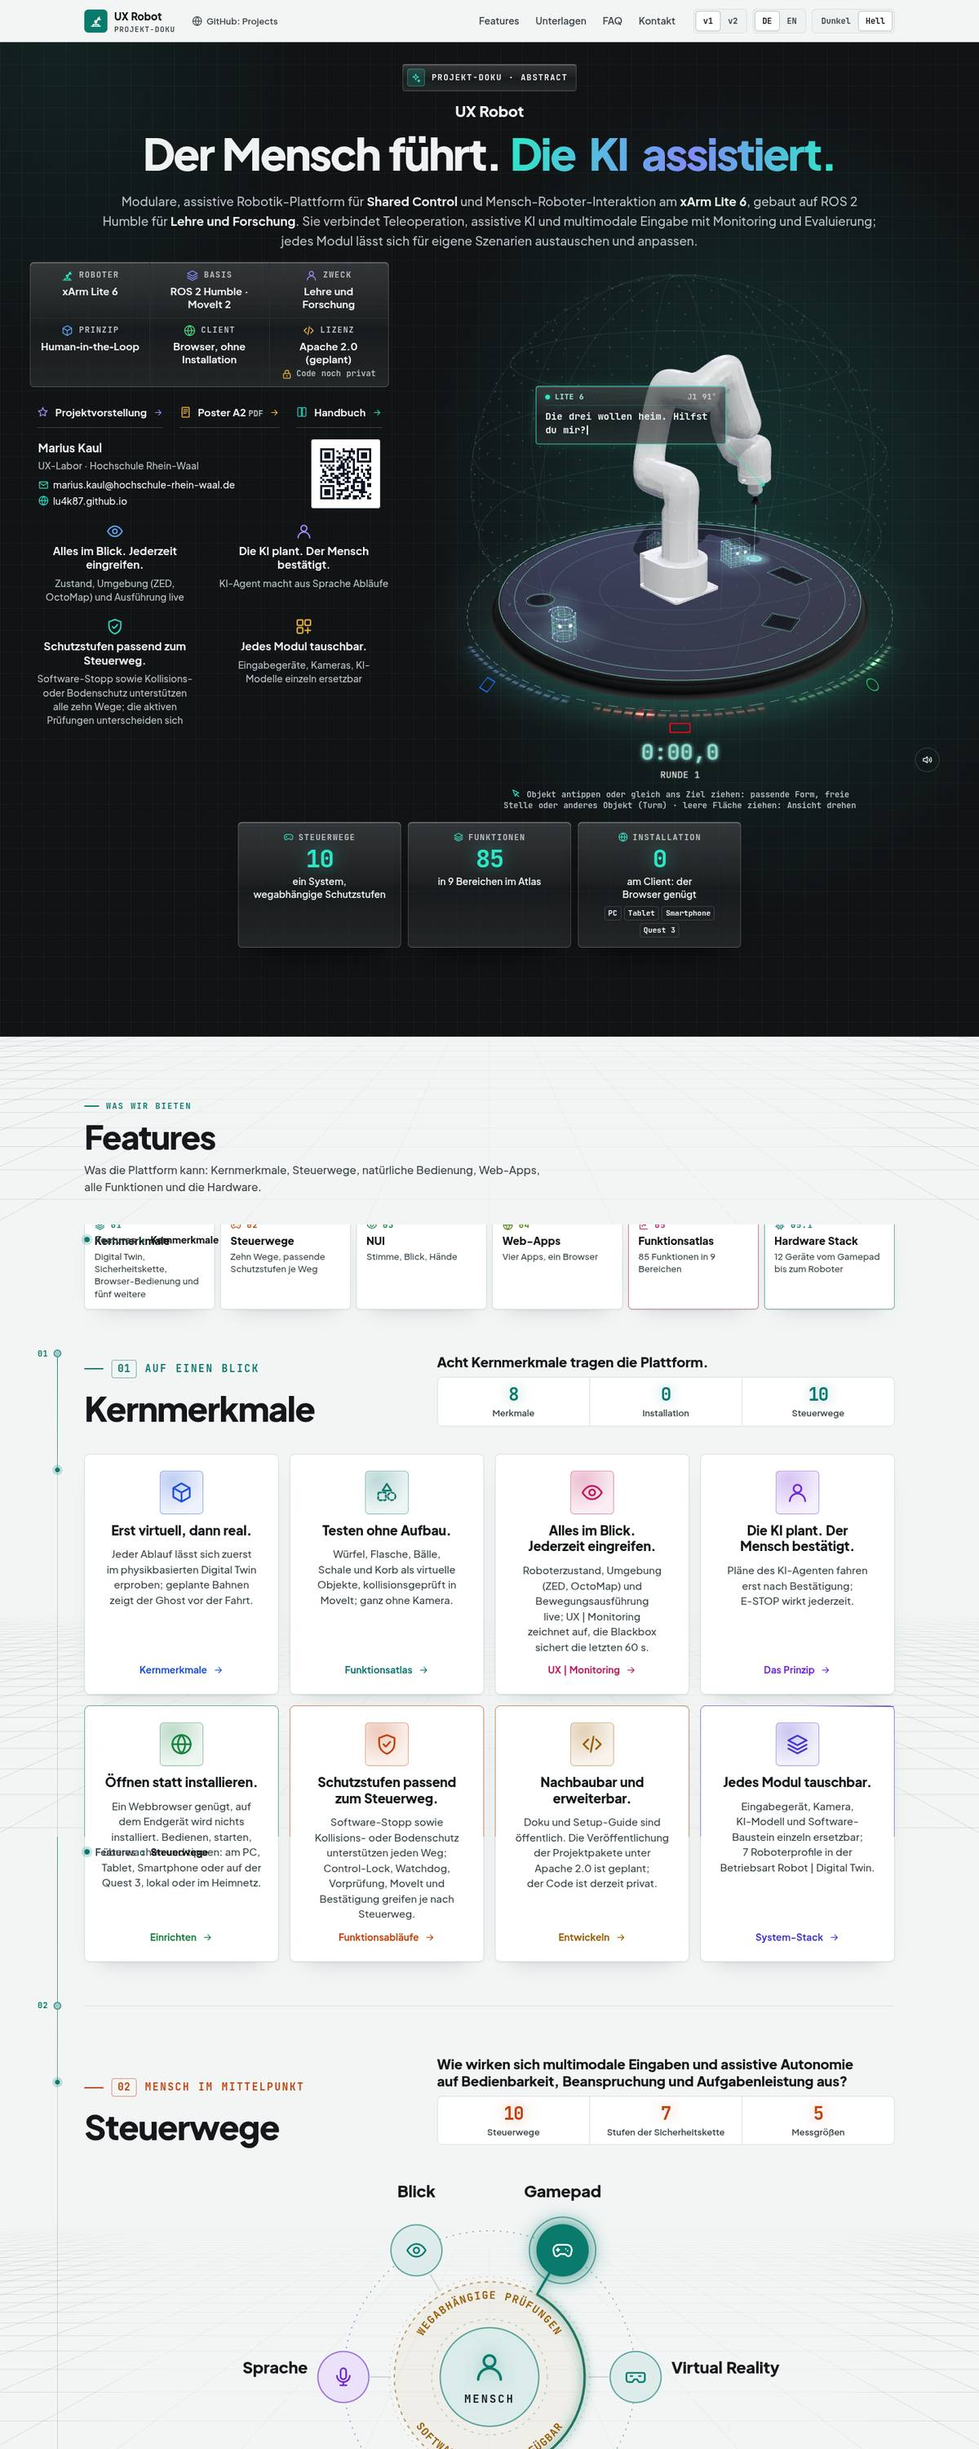
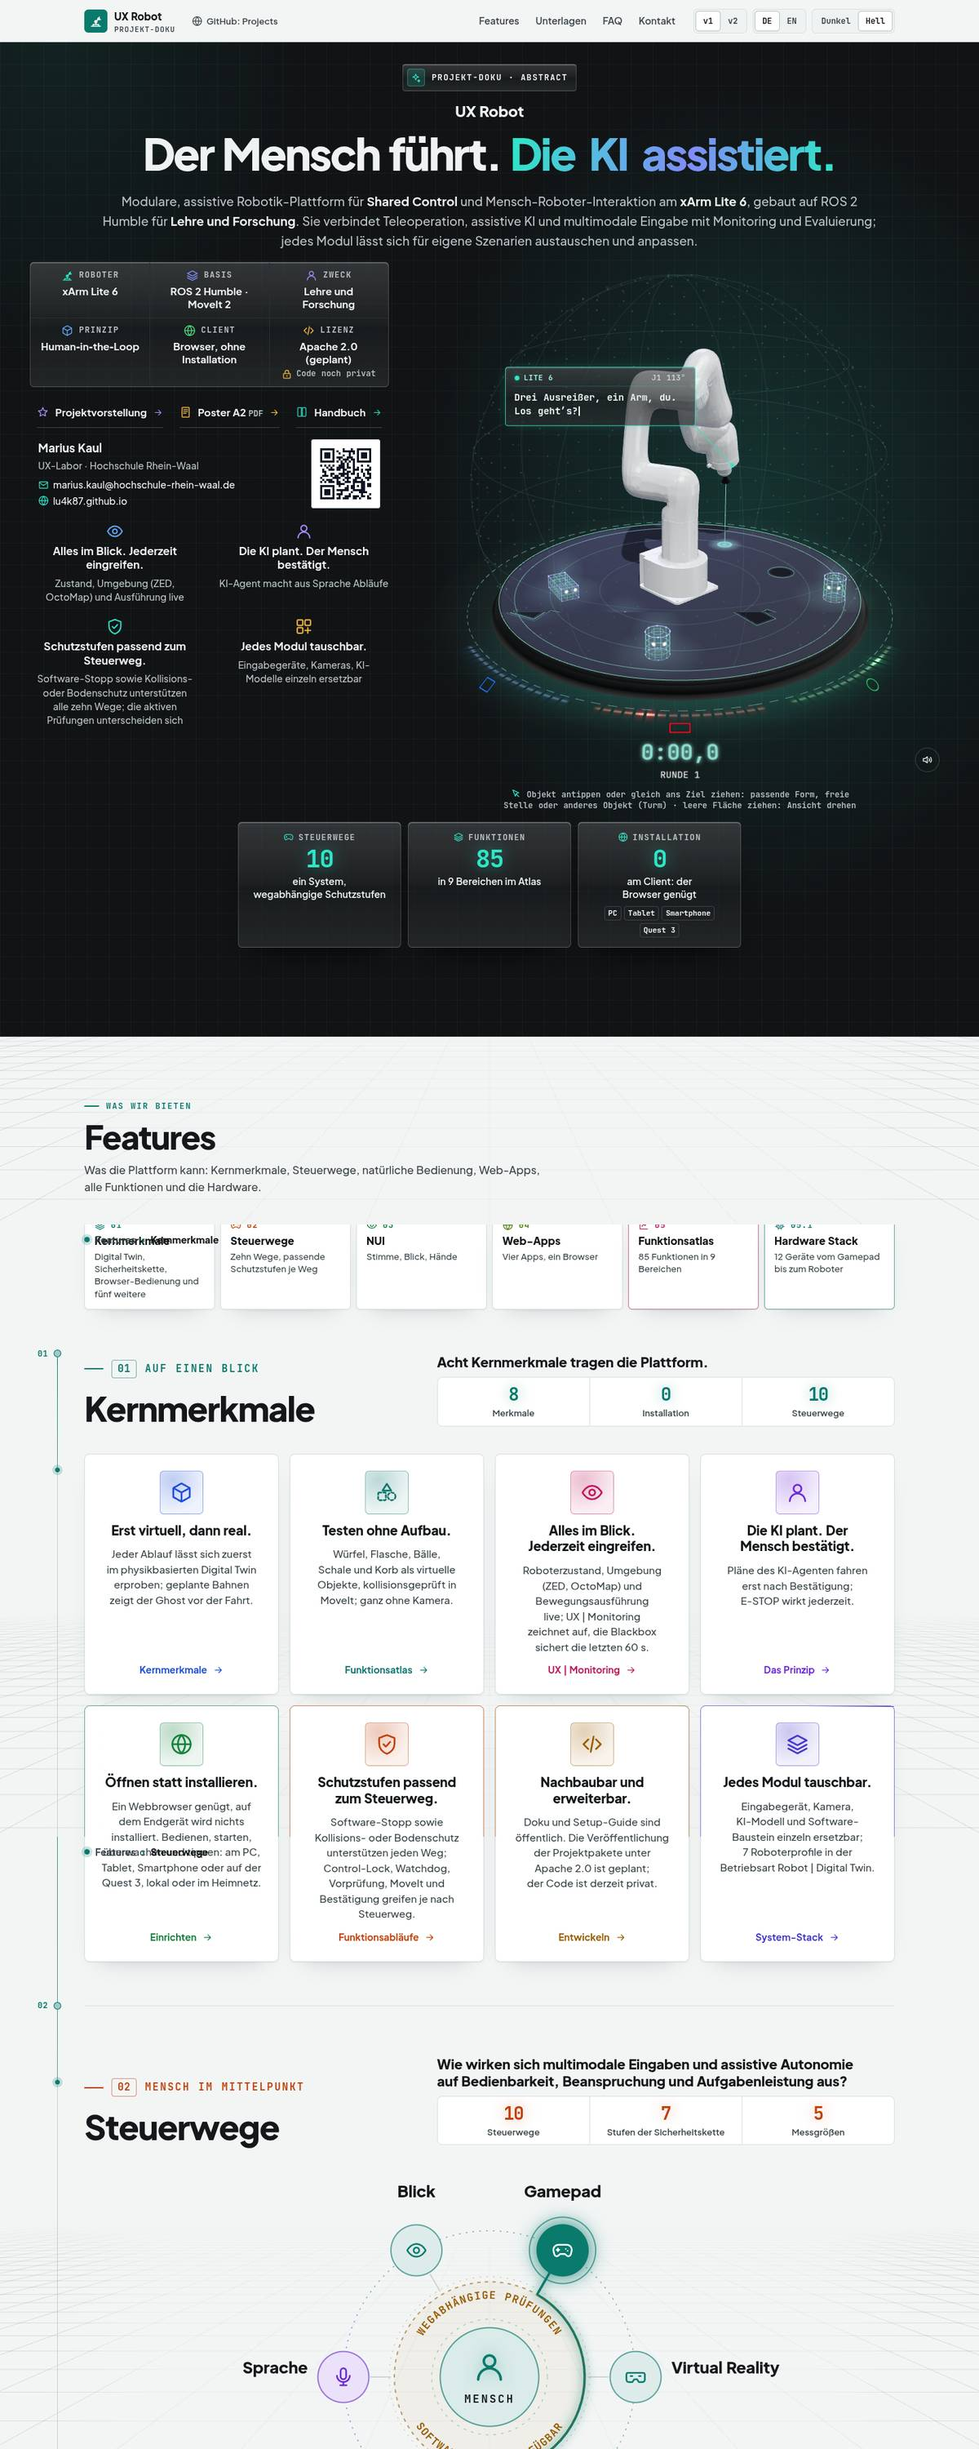
update project pages (dev_ws 053eba7e)

Changed region(s): [[0.5242, 0.124, 0.8017, 0.279], [0.555, 0.217, 0.5858, 0.279], [0.8325, 0.217, 0.8633, 0.248]]

diff --git a/index.html b/index.html
@@ -887,7 +887,7 @@ footer p { margin: 0; }
     <p class="kicker"><b>01</b><span>UX Lab</span></p>
     <h2 id="h-lab" data-en="UX Lab · Rhine-Waal University of Applied Sciences">UX Lab · Hochschule Rhein-Waal</h2>
     <p class="intro" data-en="Robotics platform and research belong together: the study runs on UX Robot.">Robotik-Plattform und Forschung gehören zusammen: Die Studie läuft auf UX Robot.</p>
-    <div class="grid rows"><article class="card row" id="p-ux_robot" data-reveal><div class="info"><div class="plate"><a class="qr-code" href="web_ux_robot/project_docs.html" aria-label="QR-Code lu4k87.github.io/web_ux_robot" data-en-aria="QR code lu4k87.github.io/web_ux_robot"><svg viewBox="0 0 29 29" class="segno"><path class="qrline" stroke="#000" d="M0 0.5h7m1 0h3m1 0h1m1 0h1m1 0h5m1 0h7m-29 1h1m5 0h1m1 0h2m6 0h2m2 0h1m1 0h1m5 0h1m-29 1h1m1 0h3m1 0h1m2 0h1m1 0h1m1 0h1m1 0h1m2 0h1m1 0h1m1 0h1m1 0h3m1 0h1m-29 1h1m1 0h3m1 0h1m1 0h1m1 0h1m6 0h1m1 0h1m2 0h1m1 0h3m1 0h1m-29 1h1m1 0h3m1 0h1m2 0h1m4 0h3m2 0h2m1 0h1m1 0h3m1 0h1m-29 1h1m5 0h1m2 0h3m1 0h1m2 0h4m2 0h1m5 0h1m-29 1h7m1 0h1m1 0h1m1 0h1m1 0h1m1 0h1m1 0h1m1 0h1m1 0h7m-21 1h1m5 0h2m1 0h4m-21 1h1m1 0h2m1 0h3m1 0h3m1 0h1m2 0h2m1 0h1m2 0h1m2 0h1m1 0h2m-29 1h4m3 0h3m1 0h1m1 0h1m2 0h5m1 0h1m1 0h1m3 0h1m-27 1h7m2 0h1m1 0h1m2 0h1m1 0h1m3 0h1m1 0h1m1 0h2m-28 1h2m1 0h2m2 0h3m2 0h1m2 0h1m2 0h3m1 0h1m1 0h1m3 0h1m-29 1h3m3 0h1m1 0h1m1 0h3m1 0h1m2 0h1m2 0h2m3 0h2m-27 1h4m3 0h3m4 0h6m1 0h2m3 0h3m-29 1h1m5 0h1m2 0h1m2 0h2m2 0h4m1 0h2m3 0h3m-29 1h4m3 0h2m1 0h1m1 0h1m1 0h1m7 0h3m2 0h1m-28 1h2m4 0h1m2 0h3m2 0h1m1 0h1m1 0h3m3 0h2m1 0h1m-26 1h3m2 0h1m1 0h1m1 0h2m1 0h2m4 0h1m4 0h3m-28 1h1m1 0h7m4 0h4m5 0h3m1 0h1m-25 1h4m1 0h3m1 0h8m3 0h1m3 0h1m-26 1h3m2 0h1m2 0h2m2 0h3m1 0h10m-19 1h1m1 0h1m1 0h1m2 0h2m1 0h3m3 0h5m-29 1h7m1 0h2m4 0h1m4 0h2m1 0h1m1 0h2m1 0h1m-28 1h1m5 0h1m1 0h1m1 0h2m1 0h2m1 0h1m3 0h1m3 0h2m1 0h2m-29 1h1m1 0h3m1 0h1m4 0h1m4 0h1m3 0h5m1 0h1m-27 1h1m1 0h3m1 0h1m1 0h1m1 0h1m4 0h2m1 0h4m2 0h2m2 0h1m-29 1h1m1 0h3m1 0h1m1 0h5m1 0h1m2 0h4m2 0h1m2 0h1m1 0h1m-29 1h1m5 0h1m2 0h3m3 0h2m3 0h1m3 0h2m1 0h1m-28 1h7m1 0h3m3 0h1m1 0h1m1 0h5m1 0h1m2 0h1"/></svg></a><div class="qr-meta"><span class="host">lu4k87.github.io</span><a class="path" href="web_ux_robot/project_docs.html">/web_<wbr>ux_<wbr>robot</a><span class="scan"><svg class="i" aria-hidden="true"><use href="#i-qr"/></svg><span data-en="Scan to open">Zum Scannen</span></span><button class="qr-more" type="button" aria-expanded="false"><svg class="i" aria-hidden="true"><use href="#i-qr"/></svg><span class="qr-show" data-en="Show QR code">QR-Code zeigen</span><span class="qr-hide" data-en="Hide QR code">QR-Code ausblenden</span></button></div></div><div class="body"><p class="tag" data-en="Robotics · ROS 2 · xArm Lite 6">Robotik · ROS 2 · xArm Lite 6</p><h3>UX Robot</h3><p class="desc" data-en="Assistive robotics platform for the xArm Lite 6 – The human leads. The AI assists.">Assistive Robotik-Plattform für den xArm Lite 6 – Der Mensch führt. Die KI assistiert.</p></div><div class="acts"><div class="btns"><a class="btn main" href="web_ux_robot/project_docs.html"><span data-en="Read the docs">Doku lesen</span><svg class="i go" aria-hidden="true"><use href="#i-go"/></svg></a><a class="btn" href="web_ux_robot/project_docs.html"><span data-en="Open page">Seite öffnen</span><svg class="i go" aria-hidden="true"><use href="#i-go"/></svg></a></div><span class="repo-status" role="img" aria-label="Code privat" data-en-aria="Code private"><svg class="i" aria-hidden="true"><use href="#i-lock"/></svg><span data-en="Code private">Code privat</span></span></div></div><div class="shot"><a class="win" href="web_ux_robot/project_docs.html" aria-label="Seite öffnen: UX Robot · lu4k87.github.io/web_ux_robot" data-en-aria="Open page: UX Robot · lu4k87.github.io/web_ux_robot"><span class="win-bar"><i></i><i></i><i></i><span class="win-url">lu4k87.github.io/<wbr>web_<wbr>ux_<wbr>robot</span></span><span class="win-view tall" style="--r: 0.225; --d: 10.3s"><span class="win-pane"><img src="web_shots/ux_robot.jpg?v=1911a9e1" width="1200" height="3000" alt="" loading="lazy" decoding="async"></span><i class="win-pos" aria-hidden="true"><b></b></i></span></a></div></article><article class="card row" id="p-ux_robot_research" data-reveal><div class="info"><div class="plate"><a class="qr-code" href="web_ux_robot/present_research.html" aria-label="QR-Code lu4k87.github.io/web_ux_robot_research" data-en-aria="QR code lu4k87.github.io/web_ux_robot_research"><svg viewBox="0 0 33 33" class="segno"><path class="qrline" stroke="#000" d="M0 0.5h7m1 0h2m2 0h2m1 0h1m2 0h2m1 0h4m1 0h7m-33 1h1m5 0h1m2 0h4m4 0h2m2 0h2m1 0h1m1 0h1m5 0h1m-33 1h1m1 0h3m1 0h1m2 0h1m3 0h2m4 0h1m1 0h1m2 0h1m1 0h1m1 0h3m1 0h1m-33 1h1m1 0h3m1 0h1m3 0h4m1 0h3m3 0h3m2 0h1m1 0h3m1 0h1m-33 1h1m1 0h3m1 0h1m1 0h5m4 0h7m2 0h1m1 0h3m1 0h1m-33 1h1m5 0h1m1 0h1m3 0h4m1 0h1m4 0h1m3 0h1m5 0h1m-33 1h7m1 0h1m1 0h1m1 0h1m1 0h1m1 0h1m1 0h1m1 0h1m1 0h1m1 0h1m1 0h7m-23 1h1m2 0h1m1 0h2m1 0h2m1 0h3m-23 1h7m1 0h3m1 0h2m2 0h1m5 0h1m3 0h2m3 0h1m-33 1h2m1 0h2m3 0h5m3 0h5m2 0h2m1 0h2m1 0h4m-33 1h2m4 0h2m3 0h1m1 0h3m2 0h1m1 0h1m1 0h1m3 0h1m1 0h1m1 0h2m-31 1h2m4 0h2m1 0h1m1 0h1m1 0h3m1 0h1m1 0h5m3 0h5m-29 1h1m1 0h3m7 0h1m1 0h1m1 0h1m1 0h4m2 0h2m1 0h2m-25 1h1m2 0h2m3 0h1m1 0h3m1 0h2m1 0h1m3 0h4m-29 1h1m1 0h2m1 0h1m1 0h4m1 0h3m1 0h1m1 0h1m1 0h3m2 0h1m1 0h1m-31 1h1m2 0h1m3 0h2m1 0h2m1 0h1m1 0h1m4 0h1m1 0h4m2 0h2m-28 1h1m2 0h1m2 0h4m1 0h1m1 0h2m2 0h1m1 0h1m1 0h2m1 0h2m3 0h1m-33 1h1m6 0h1m1 0h2m1 0h2m3 0h1m1 0h3m1 0h1m2 0h2m1 0h2m1 0h1m-33 1h2m1 0h1m1 0h7m2 0h5m5 0h5m1 0h1m-29 1h1m1 0h1m2 0h1m3 0h1m3 0h4m2 0h1m3 0h8m-33 1h1m3 0h3m1 0h4m1 0h2m3 0h2m2 0h1m1 0h2m2 0h2m1 0h2m-33 1h1m2 0h3m1 0h3m4 0h3m1 0h4m1 0h1m1 0h2m2 0h2m1 0h1m-33 1h1m1 0h1m3 0h6m3 0h3m2 0h1m1 0h1m2 0h2m1 0h4m-32 1h1m2 0h3m1 0h2m4 0h2m3 0h1m1 0h4m4 0h3m1 0h1m-33 1h1m2 0h1m1 0h2m1 0h1m1 0h2m2 0h2m1 0h2m3 0h7m2 0h2m-25 1h6m4 0h4m1 0h2m3 0h1m1 0h1m1 0h1m-33 1h7m1 0h2m2 0h2m4 0h1m2 0h4m1 0h1m1 0h1m1 0h2m-32 1h1m5 0h1m1 0h3m1 0h1m2 0h1m2 0h1m1 0h3m1 0h1m3 0h4m-32 1h1m1 0h3m1 0h1m1 0h2m1 0h2m1 0h4m4 0h1m1 0h6m2 0h1m-33 1h1m1 0h3m1 0h1m1 0h2m1 0h1m2 0h7m1 0h4m2 0h1m1 0h1m1 0h1m-33 1h1m1 0h3m1 0h1m1 0h1m2 0h2m2 0h4m1 0h2m1 0h5m-28 1h1m5 0h1m1 0h2m1 0h3m1 0h5m1 0h2m5 0h3m-31 1h7m2 0h2m1 0h1m1 0h2m1 0h2m1 0h1m1 0h3m1 0h2m1 0h3"/></svg></a><div class="qr-meta"><span class="host">lu4k87.github.io</span><a class="path" href="web_ux_robot/present_research.html">/web_<wbr>ux_<wbr>robot_<wbr>research</a><span class="scan"><svg class="i" aria-hidden="true"><use href="#i-qr"/></svg><span data-en="Scan to open">Zum Scannen</span></span><button class="qr-more" type="button" aria-expanded="false"><svg class="i" aria-hidden="true"><use href="#i-qr"/></svg><span class="qr-show" data-en="Show QR code">QR-Code zeigen</span><span class="qr-hide" data-en="Hide QR code">QR-Code ausblenden</span></button></div></div><div class="body"><p class="tag" data-en="Research · human factors">Forschung · Human Factors</p><h3>Look, Speak, Confirm</h3><p class="desc" data-en="Study of gaze, speech and confirmation as complementary interaction for robot manipulation.">Studie zu Blick, Sprache und Bestätigung als sich ergänzende Bedienung für Roboter-Manipulation.</p></div><div class="acts"><div class="btns"><a class="btn main" href="web_ux_robot/present_research.html"><span data-en="Read the study">Studie lesen</span><svg class="i go" aria-hidden="true"><use href="#i-go"/></svg></a><a class="btn" href="web_ux_robot/present_research.html"><span data-en="Open page">Seite öffnen</span><svg class="i go" aria-hidden="true"><use href="#i-go"/></svg></a></div><span class="repo-status" role="img" aria-label="Code privat" data-en-aria="Code private"><svg class="i" aria-hidden="true"><use href="#i-lock"/></svg><span data-en="Code private">Code privat</span></span></div></div><div class="shot"><a class="win" href="web_ux_robot/present_research.html" aria-label="Seite öffnen: Look, Speak, Confirm · lu4k87.github.io/web_ux_robot_research" data-en-aria="Open page: Look, Speak, Confirm · lu4k87.github.io/web_ux_robot_research"><span class="win-bar"><i></i><i></i><i></i><span class="win-url">lu4k87.github.io/<wbr>web_<wbr>ux_<wbr>robot_<wbr>research</span></span><span class="win-view tall" style="--r: 0.225; --d: 10.3s"><span class="win-pane"><img src="web_shots/ux_robot_research.jpg?v=1911a9e1" width="1200" height="3000" alt="" loading="lazy" decoding="async"></span><i class="win-pos" aria-hidden="true"><b></b></i></span></a></div></article></div>
+    <div class="grid rows"><article class="card row" id="p-ux_robot" data-reveal><div class="info"><div class="plate"><a class="qr-code" href="web_ux_robot/project_docs.html" aria-label="QR-Code lu4k87.github.io/web_ux_robot" data-en-aria="QR code lu4k87.github.io/web_ux_robot"><svg viewBox="0 0 29 29" class="segno"><path class="qrline" stroke="#000" d="M0 0.5h7m1 0h3m1 0h1m1 0h1m1 0h5m1 0h7m-29 1h1m5 0h1m1 0h2m6 0h2m2 0h1m1 0h1m5 0h1m-29 1h1m1 0h3m1 0h1m2 0h1m1 0h1m1 0h1m1 0h1m2 0h1m1 0h1m1 0h1m1 0h3m1 0h1m-29 1h1m1 0h3m1 0h1m1 0h1m1 0h1m6 0h1m1 0h1m2 0h1m1 0h3m1 0h1m-29 1h1m1 0h3m1 0h1m2 0h1m4 0h3m2 0h2m1 0h1m1 0h3m1 0h1m-29 1h1m5 0h1m2 0h3m1 0h1m2 0h4m2 0h1m5 0h1m-29 1h7m1 0h1m1 0h1m1 0h1m1 0h1m1 0h1m1 0h1m1 0h1m1 0h7m-21 1h1m5 0h2m1 0h4m-21 1h1m1 0h2m1 0h3m1 0h3m1 0h1m2 0h2m1 0h1m2 0h1m2 0h1m1 0h2m-29 1h4m3 0h3m1 0h1m1 0h1m2 0h5m1 0h1m1 0h1m3 0h1m-27 1h7m2 0h1m1 0h1m2 0h1m1 0h1m3 0h1m1 0h1m1 0h2m-28 1h2m1 0h2m2 0h3m2 0h1m2 0h1m2 0h3m1 0h1m1 0h1m3 0h1m-29 1h3m3 0h1m1 0h1m1 0h3m1 0h1m2 0h1m2 0h2m3 0h2m-27 1h4m3 0h3m4 0h6m1 0h2m3 0h3m-29 1h1m5 0h1m2 0h1m2 0h2m2 0h4m1 0h2m3 0h3m-29 1h4m3 0h2m1 0h1m1 0h1m1 0h1m7 0h3m2 0h1m-28 1h2m4 0h1m2 0h3m2 0h1m1 0h1m1 0h3m3 0h2m1 0h1m-26 1h3m2 0h1m1 0h1m1 0h2m1 0h2m4 0h1m4 0h3m-28 1h1m1 0h7m4 0h4m5 0h3m1 0h1m-25 1h4m1 0h3m1 0h8m3 0h1m3 0h1m-26 1h3m2 0h1m2 0h2m2 0h3m1 0h10m-19 1h1m1 0h1m1 0h1m2 0h2m1 0h3m3 0h5m-29 1h7m1 0h2m4 0h1m4 0h2m1 0h1m1 0h2m1 0h1m-28 1h1m5 0h1m1 0h1m1 0h2m1 0h2m1 0h1m3 0h1m3 0h2m1 0h2m-29 1h1m1 0h3m1 0h1m4 0h1m4 0h1m3 0h5m1 0h1m-27 1h1m1 0h3m1 0h1m1 0h1m1 0h1m4 0h2m1 0h4m2 0h2m2 0h1m-29 1h1m1 0h3m1 0h1m1 0h5m1 0h1m2 0h4m2 0h1m2 0h1m1 0h1m-29 1h1m5 0h1m2 0h3m3 0h2m3 0h1m3 0h2m1 0h1m-28 1h7m1 0h3m3 0h1m1 0h1m1 0h5m1 0h1m2 0h1"/></svg></a><div class="qr-meta"><span class="host">lu4k87.github.io</span><a class="path" href="web_ux_robot/project_docs.html">/web_<wbr>ux_<wbr>robot</a><span class="scan"><svg class="i" aria-hidden="true"><use href="#i-qr"/></svg><span data-en="Scan to open">Zum Scannen</span></span><button class="qr-more" type="button" aria-expanded="false"><svg class="i" aria-hidden="true"><use href="#i-qr"/></svg><span class="qr-show" data-en="Show QR code">QR-Code zeigen</span><span class="qr-hide" data-en="Hide QR code">QR-Code ausblenden</span></button></div></div><div class="body"><p class="tag" data-en="Robotics · ROS 2 · xArm Lite 6">Robotik · ROS 2 · xArm Lite 6</p><h3>UX Robot</h3><p class="desc" data-en="Assistive robotics platform for the xArm Lite 6 – The human leads. The AI assists.">Assistive Robotik-Plattform für den xArm Lite 6 – Der Mensch führt. Die KI assistiert.</p></div><div class="acts"><div class="btns"><a class="btn main" href="web_ux_robot/project_docs.html"><span data-en="Read the docs">Doku lesen</span><svg class="i go" aria-hidden="true"><use href="#i-go"/></svg></a><a class="btn" href="web_ux_robot/project_docs.html"><span data-en="Open page">Seite öffnen</span><svg class="i go" aria-hidden="true"><use href="#i-go"/></svg></a></div><span class="repo-status" role="img" aria-label="Code privat" data-en-aria="Code private"><svg class="i" aria-hidden="true"><use href="#i-lock"/></svg><span data-en="Code private">Code privat</span></span></div></div><div class="shot"><a class="win" href="web_ux_robot/project_docs.html" aria-label="Seite öffnen: UX Robot · lu4k87.github.io/web_ux_robot" data-en-aria="Open page: UX Robot · lu4k87.github.io/web_ux_robot"><span class="win-bar"><i></i><i></i><i></i><span class="win-url">lu4k87.github.io/<wbr>web_<wbr>ux_<wbr>robot</span></span><span class="win-view tall" style="--r: 0.225; --d: 10.3s"><span class="win-pane"><img src="web_shots/ux_robot.jpg?v=a13799be" width="1200" height="3000" alt="" loading="lazy" decoding="async"></span><i class="win-pos" aria-hidden="true"><b></b></i></span></a></div></article><article class="card row" id="p-ux_robot_research" data-reveal><div class="info"><div class="plate"><a class="qr-code" href="web_ux_robot/present_research.html" aria-label="QR-Code lu4k87.github.io/web_ux_robot_research" data-en-aria="QR code lu4k87.github.io/web_ux_robot_research"><svg viewBox="0 0 33 33" class="segno"><path class="qrline" stroke="#000" d="M0 0.5h7m1 0h2m2 0h2m1 0h1m2 0h2m1 0h4m1 0h7m-33 1h1m5 0h1m2 0h4m4 0h2m2 0h2m1 0h1m1 0h1m5 0h1m-33 1h1m1 0h3m1 0h1m2 0h1m3 0h2m4 0h1m1 0h1m2 0h1m1 0h1m1 0h3m1 0h1m-33 1h1m1 0h3m1 0h1m3 0h4m1 0h3m3 0h3m2 0h1m1 0h3m1 0h1m-33 1h1m1 0h3m1 0h1m1 0h5m4 0h7m2 0h1m1 0h3m1 0h1m-33 1h1m5 0h1m1 0h1m3 0h4m1 0h1m4 0h1m3 0h1m5 0h1m-33 1h7m1 0h1m1 0h1m1 0h1m1 0h1m1 0h1m1 0h1m1 0h1m1 0h1m1 0h1m1 0h7m-23 1h1m2 0h1m1 0h2m1 0h2m1 0h3m-23 1h7m1 0h3m1 0h2m2 0h1m5 0h1m3 0h2m3 0h1m-33 1h2m1 0h2m3 0h5m3 0h5m2 0h2m1 0h2m1 0h4m-33 1h2m4 0h2m3 0h1m1 0h3m2 0h1m1 0h1m1 0h1m3 0h1m1 0h1m1 0h2m-31 1h2m4 0h2m1 0h1m1 0h1m1 0h3m1 0h1m1 0h5m3 0h5m-29 1h1m1 0h3m7 0h1m1 0h1m1 0h1m1 0h4m2 0h2m1 0h2m-25 1h1m2 0h2m3 0h1m1 0h3m1 0h2m1 0h1m3 0h4m-29 1h1m1 0h2m1 0h1m1 0h4m1 0h3m1 0h1m1 0h1m1 0h3m2 0h1m1 0h1m-31 1h1m2 0h1m3 0h2m1 0h2m1 0h1m1 0h1m4 0h1m1 0h4m2 0h2m-28 1h1m2 0h1m2 0h4m1 0h1m1 0h2m2 0h1m1 0h1m1 0h2m1 0h2m3 0h1m-33 1h1m6 0h1m1 0h2m1 0h2m3 0h1m1 0h3m1 0h1m2 0h2m1 0h2m1 0h1m-33 1h2m1 0h1m1 0h7m2 0h5m5 0h5m1 0h1m-29 1h1m1 0h1m2 0h1m3 0h1m3 0h4m2 0h1m3 0h8m-33 1h1m3 0h3m1 0h4m1 0h2m3 0h2m2 0h1m1 0h2m2 0h2m1 0h2m-33 1h1m2 0h3m1 0h3m4 0h3m1 0h4m1 0h1m1 0h2m2 0h2m1 0h1m-33 1h1m1 0h1m3 0h6m3 0h3m2 0h1m1 0h1m2 0h2m1 0h4m-32 1h1m2 0h3m1 0h2m4 0h2m3 0h1m1 0h4m4 0h3m1 0h1m-33 1h1m2 0h1m1 0h2m1 0h1m1 0h2m2 0h2m1 0h2m3 0h7m2 0h2m-25 1h6m4 0h4m1 0h2m3 0h1m1 0h1m1 0h1m-33 1h7m1 0h2m2 0h2m4 0h1m2 0h4m1 0h1m1 0h1m1 0h2m-32 1h1m5 0h1m1 0h3m1 0h1m2 0h1m2 0h1m1 0h3m1 0h1m3 0h4m-32 1h1m1 0h3m1 0h1m1 0h2m1 0h2m1 0h4m4 0h1m1 0h6m2 0h1m-33 1h1m1 0h3m1 0h1m1 0h2m1 0h1m2 0h7m1 0h4m2 0h1m1 0h1m1 0h1m-33 1h1m1 0h3m1 0h1m1 0h1m2 0h2m2 0h4m1 0h2m1 0h5m-28 1h1m5 0h1m1 0h2m1 0h3m1 0h5m1 0h2m5 0h3m-31 1h7m2 0h2m1 0h1m1 0h2m1 0h2m1 0h1m1 0h3m1 0h2m1 0h3"/></svg></a><div class="qr-meta"><span class="host">lu4k87.github.io</span><a class="path" href="web_ux_robot/present_research.html">/web_<wbr>ux_<wbr>robot_<wbr>research</a><span class="scan"><svg class="i" aria-hidden="true"><use href="#i-qr"/></svg><span data-en="Scan to open">Zum Scannen</span></span><button class="qr-more" type="button" aria-expanded="false"><svg class="i" aria-hidden="true"><use href="#i-qr"/></svg><span class="qr-show" data-en="Show QR code">QR-Code zeigen</span><span class="qr-hide" data-en="Hide QR code">QR-Code ausblenden</span></button></div></div><div class="body"><p class="tag" data-en="Research · human factors">Forschung · Human Factors</p><h3>Look, Speak, Confirm</h3><p class="desc" data-en="Study of gaze, speech and confirmation as complementary interaction for robot manipulation.">Studie zu Blick, Sprache und Bestätigung als sich ergänzende Bedienung für Roboter-Manipulation.</p></div><div class="acts"><div class="btns"><a class="btn main" href="web_ux_robot/present_research.html"><span data-en="Read the study">Studie lesen</span><svg class="i go" aria-hidden="true"><use href="#i-go"/></svg></a><a class="btn" href="web_ux_robot/present_research.html"><span data-en="Open page">Seite öffnen</span><svg class="i go" aria-hidden="true"><use href="#i-go"/></svg></a></div><span class="repo-status" role="img" aria-label="Code privat" data-en-aria="Code private"><svg class="i" aria-hidden="true"><use href="#i-lock"/></svg><span data-en="Code private">Code privat</span></span></div></div><div class="shot"><a class="win" href="web_ux_robot/present_research.html" aria-label="Seite öffnen: Look, Speak, Confirm · lu4k87.github.io/web_ux_robot_research" data-en-aria="Open page: Look, Speak, Confirm · lu4k87.github.io/web_ux_robot_research"><span class="win-bar"><i></i><i></i><i></i><span class="win-url">lu4k87.github.io/<wbr>web_<wbr>ux_<wbr>robot_<wbr>research</span></span><span class="win-view tall" style="--r: 0.225; --d: 10.3s"><span class="win-pane"><img src="web_shots/ux_robot_research.jpg?v=a13799be" width="1200" height="3000" alt="" loading="lazy" decoding="async"></span><i class="win-pos" aria-hidden="true"><b></b></i></span></a></div></article></div>
   </section>
 
   <section aria-labelledby="h-projects">

diff --git a/web_ux_robot/de/robot_control_ui.md b/web_ux_robot/de/robot_control_ui.md
@@ -98,7 +98,7 @@
 >> | `approach_descent_scaling` | `0.15` | *Tempo des senkrechten Absenkens.* |
 >> | `approach_object_match_radius` | `0.03` | *Max. XY-Abstand [m] zwischen Ziel und Greifkugel, um das Objekt zuzuordnen.* |
 >> | `moveit_controller_status_topic` | `/lite6_traj_controller/follow_joint_trajectory/_action/status` | *Status-Topic, an dem der Start der Ausführung erkannt wird.* |
->> | `auto_initial_pose` | `true` | *Beim Start in die Home-Pose fahren – kollisionsfrei über MoveIt geplant (wartet bis zu 30 s auf `/move_action`, mit Bahnvorschau auf Bestätigung); `false` lässt den Arm stehen. Entfällt nach jedem E-STOP seit dem Start (verriegelt von vor einem Neustart oder schon quittiert, bevor MoveIt Servo bereit war) – dann Home von Hand.* |
+>> | `auto_initial_pose` | `true` | *Beim Start in die Home-Pose fahren – kollisionsfrei über MoveIt geplant (wartet bis zu 30 s auf `/move_action`, mit Bahnvorschau auf Bestätigung); an Robot | Hardware (xArm-Treiber gesehen) wartet sie immer auf *Ausführen* im MoveIt-Popup, auch mit Bahnvorschau aus – *Verwerfen* oder kein Klick innerhalb `moveto_preview_timeout` (15 s) = keine Fahrt, Hinweis im Log; Robot | Digital Twin fährt wie bisher ohne Bestätigung; `false` lässt den Arm stehen. Entfällt nach jedem E-STOP seit dem Start (verriegelt von vor einem Neustart oder schon quittiert, bevor MoveIt Servo bereit war) – dann Home von Hand.* |
 >
 >
 > ![Subscribes](https://img.shields.io/badge/Subscribes-orange?style=flat-square)

diff --git a/web_ux_robot/en/robot_control_ui.md b/web_ux_robot/en/robot_control_ui.md
@@ -98,7 +98,7 @@
 >> | `approach_descent_scaling` | `0.15` | *Speed of the vertical descent.* |
 >> | `approach_object_match_radius` | `0.03` | *Max. XY distance [m] between target and grasp sphere to identify the object.* |
 >> | `moveit_controller_status_topic` | `/lite6_traj_controller/follow_joint_trajectory/_action/status` | *Status topic used to detect the start of execution.* |
->> | `auto_initial_pose` | `true` | *Move to the home pose at startup – planned collision-free via MoveIt (waits up to 30 s for `/move_action`, with path preview it waits for confirmation); `false` keeps the arm still. Skipped after any E-STOP since the start (latched from before a restart or already reset before MoveIt Servo was ready) – then move Home by hand.* |
+>> | `auto_initial_pose` | `true` | *Move to the home pose at startup – planned collision-free via MoveIt (waits up to 30 s for `/move_action`, with path preview it waits for confirmation); on Robot | Hardware (xArm driver seen) it always waits for *Execute* in the MoveIt popup, even with the path preview off – *Discard* or no click within `moveto_preview_timeout` (15 s) = no motion, note in the log; Robot | Digital Twin moves without confirmation as before; `false` keeps the arm still. Skipped after any E-STOP since the start (latched from before a restart or already reset before MoveIt Servo was ready) – then move Home by hand.* |
 >
 >
 > ![Subscribes](https://img.shields.io/badge/Subscribes-orange?style=flat-square)
